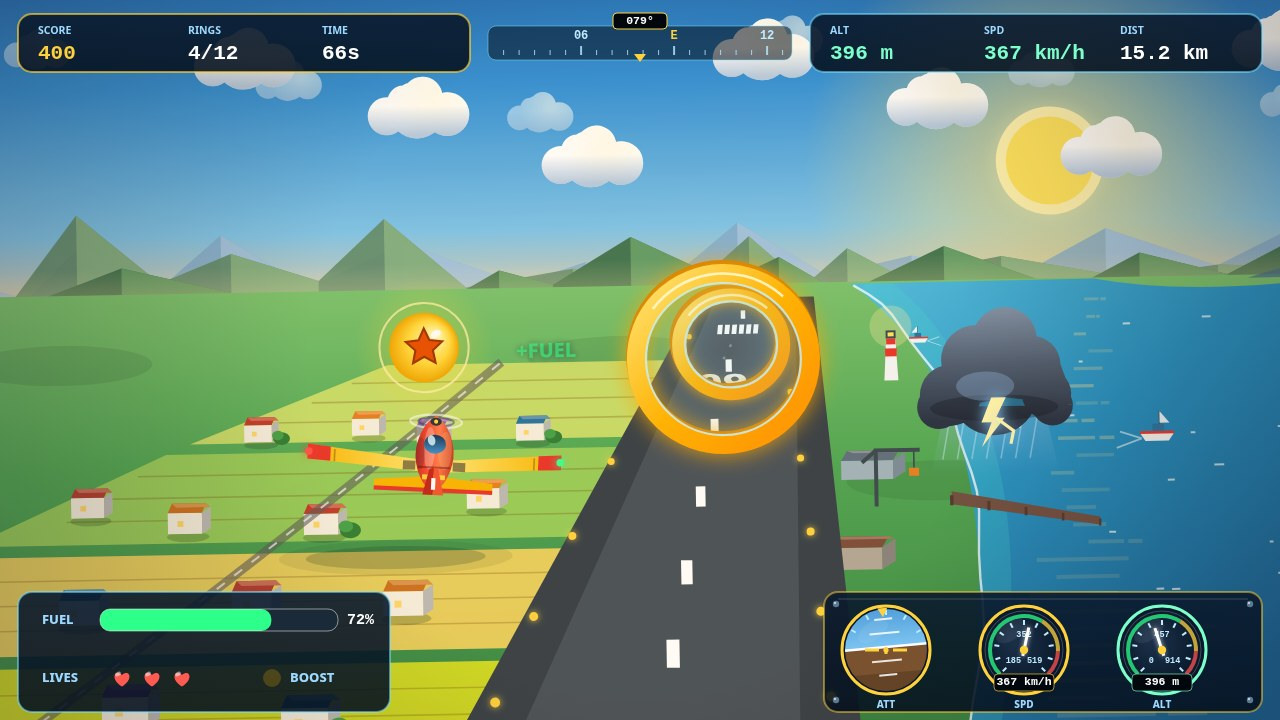
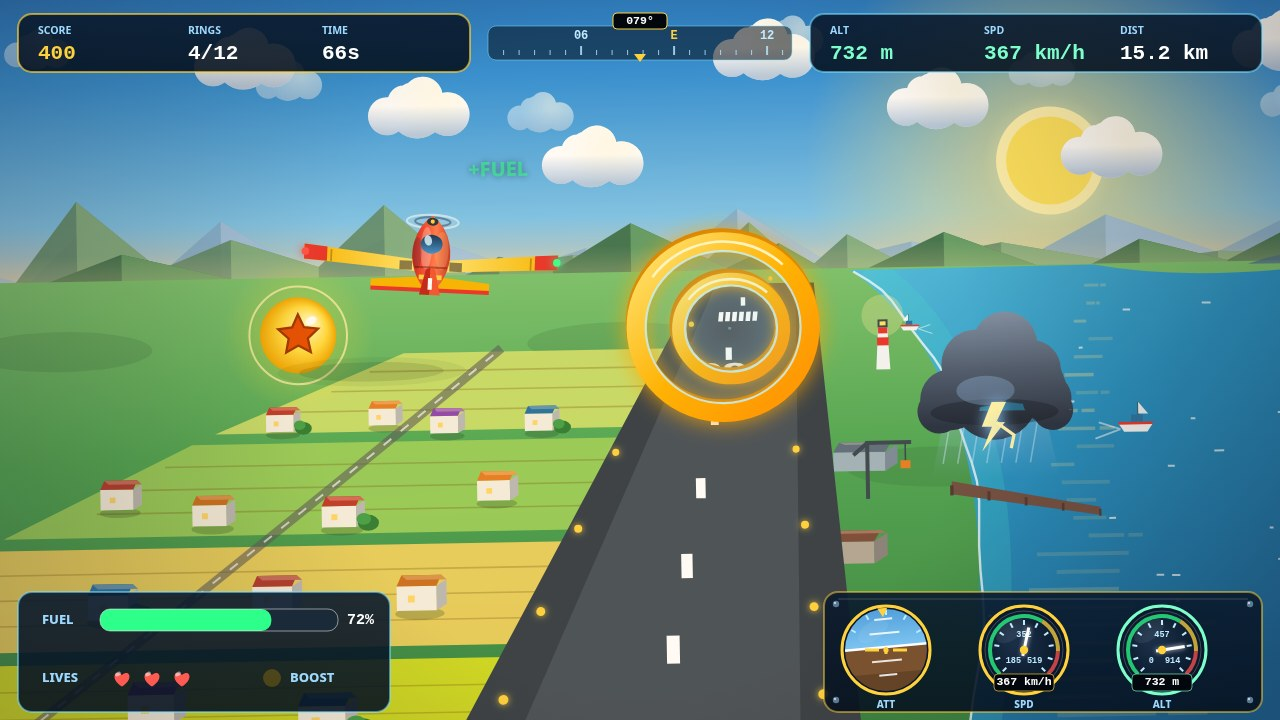
Play shot: restage as high cruise — plane in upper band at 2400 ft

diff --git a/game/src/shots.js b/game/src/shots.js
@@ -12,22 +12,28 @@ export function stageShot(name, world) {
   const s = world.state;
 
   if (name === 'play') {
-    // Harbour cruise: gentle right bank on the left of the frame, two
-    // rings ahead in a near-concentric course chained by the guide
-    // line, star clear on the left, storm cell over the harbour edge.
+    // High harbour cruise: gentle right bank in the UPPER band of the
+    // frame at 2400 ft, so the set covers high / mid / low plane
+    // positions across the four shots. Items ride at h = -1 — the top
+    // of the world model's height range, level with the plane in
+    // collision space — which keeps the course up by the dropped
+    // horizon: two rings ahead in a near-concentric pair chained by
+    // the guide line, star off the left wingtip, storm cell over the
+    // harbour edge, and the +FUEL popup floats over the plane where a
+    // ring pass would have spawned it.
     s.time = 24; s.left = 90 - s.time;
     s.score = 400; s.rings = 4; s.stars = 3;
-    s.alt = 1300; s.speed = 198; s.fuel = 72; s.dist = 8.2;
+    s.alt = 2400; s.speed = 198; s.fuel = 72; s.dist = 8.2;
     s.pitch = -0.15; s.bank = 0.18; s.heading = 79;
-    s.x = 430; s.y = 450;
+    s.x = 430; s.y = 250;
     s.items = [
-      {kind: 'ring', z: 300, lane: 0.10, h: -0.30, done: false},
-      {kind: 'ring', z: 850, lane: 0.34, h: -0.50, done: false},
-      {kind: 'star', z: 620, lane: -0.85, h: -0.55, done: false},
+      {kind: 'ring', z: 300, lane: 0.10, h: -1.00, done: false},
+      {kind: 'ring', z: 850, lane: 0.34, h: -1.00, done: false},
+      {kind: 'star', z: 520, lane: -1.15, h: -1.00, done: false},
       {kind: 'cloud', z: 760, lane: 1.38, h: 0.55, done: false},
     ];
     s.fx = [
-      {x: 545, y: 350, text: '+FUEL', kind: 'fuel', t: 0.4, burst: false, seed: 1},
+      {x: 500, y: 168, text: '+FUEL', kind: 'fuel', t: 0.4, burst: false, seed: 1},
     ];
     return {screen: SCREEN_PLAY, best: 900};
   }
